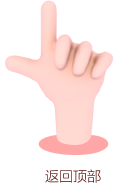
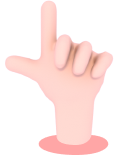
fix:修改返回顶层图标字体颜色

Changed region(s): [[0.0263, 0.1772, 1.0, 1.0]]

diff --git a/src/pc/components/Sidebar/index.scss b/src/pc/components/Sidebar/index.scss
@@ -27,12 +27,22 @@
       position: absolute;
       cursor: pointer;
       width: 70px;
-      height: 113px;
+      height: 95px;
       top: 80vh;
       left: 90vw;
       background-image: url("../../../assets/home.png");
       background-size: cover;
       z-index:999;
+      &::before{
+        content: "返回顶部";
+        position: relative;
+        left: 15px;
+        top: 100px;
+      }
+    }
+
+    .white-color{
+      color: #FFFFFF;
     }
     .show{
       opacity: 1;

diff --git a/src/pc/components/Sidebar/index.js b/src/pc/components/Sidebar/index.js
@@ -10,7 +10,10 @@ export const Sidebar = props => {
     if (index < 4) {
       return `home hide`
     }
-    else if (index >= 4 && index < 6) {
+    else if (index === 4) {
+      return `home show white-color`
+    }
+    else if (index > 4 && index < 6) {
       return `home show`
     } else if (index === 6) {
       return `home bottom`
